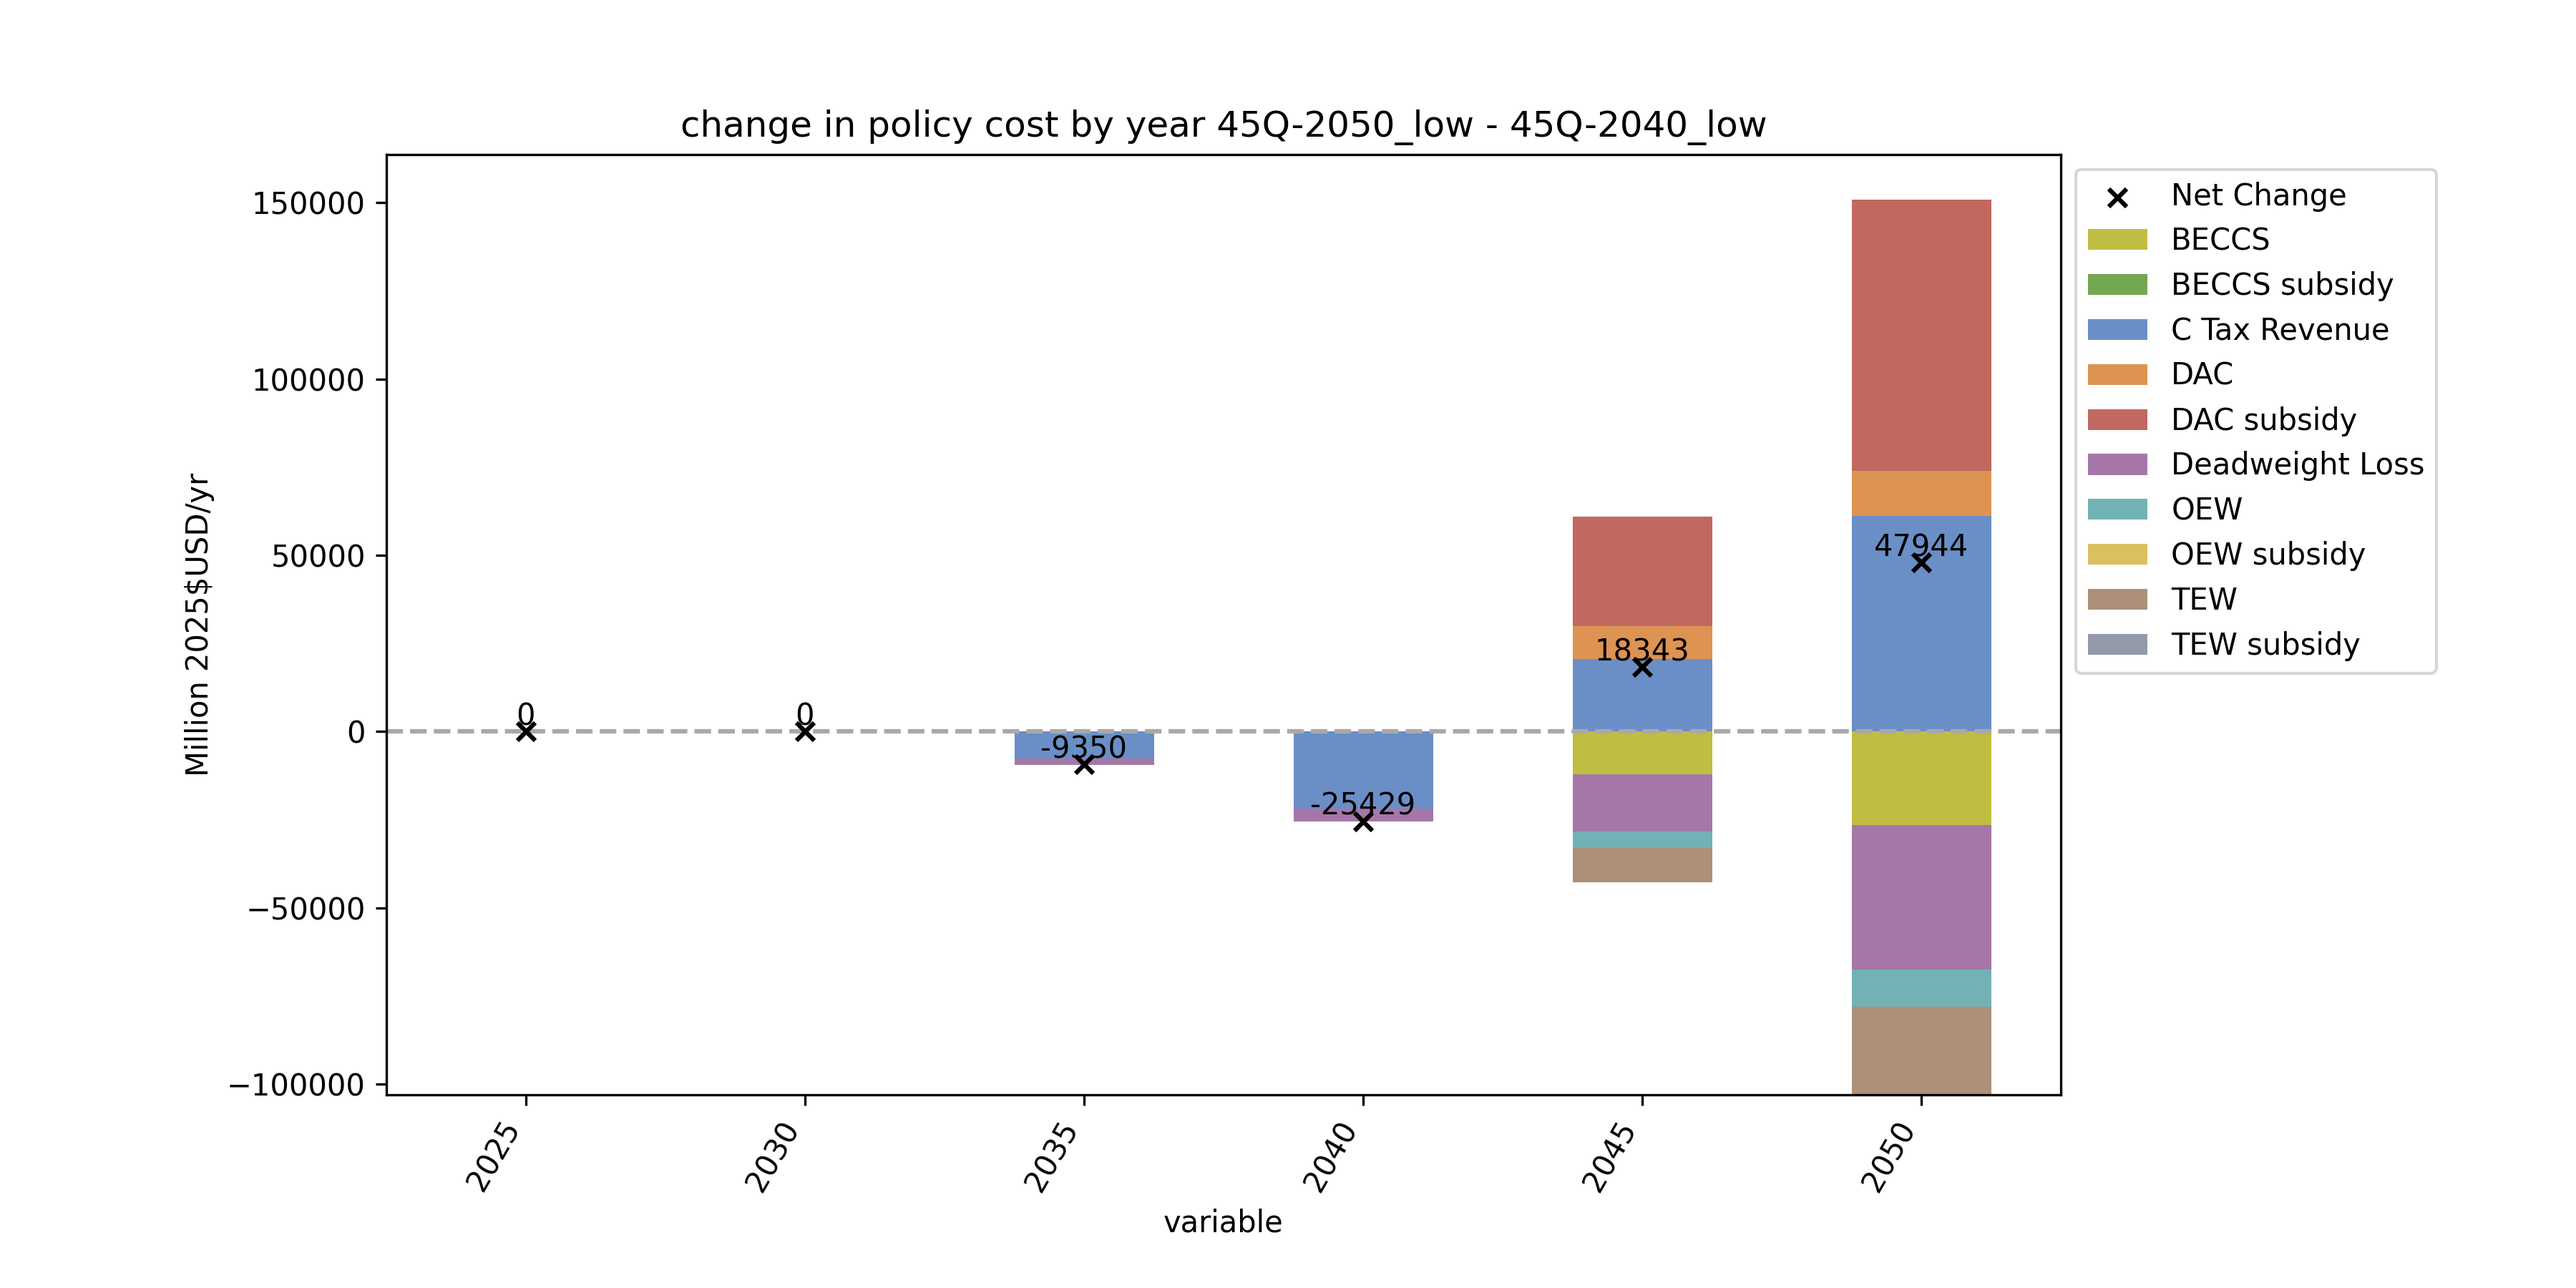
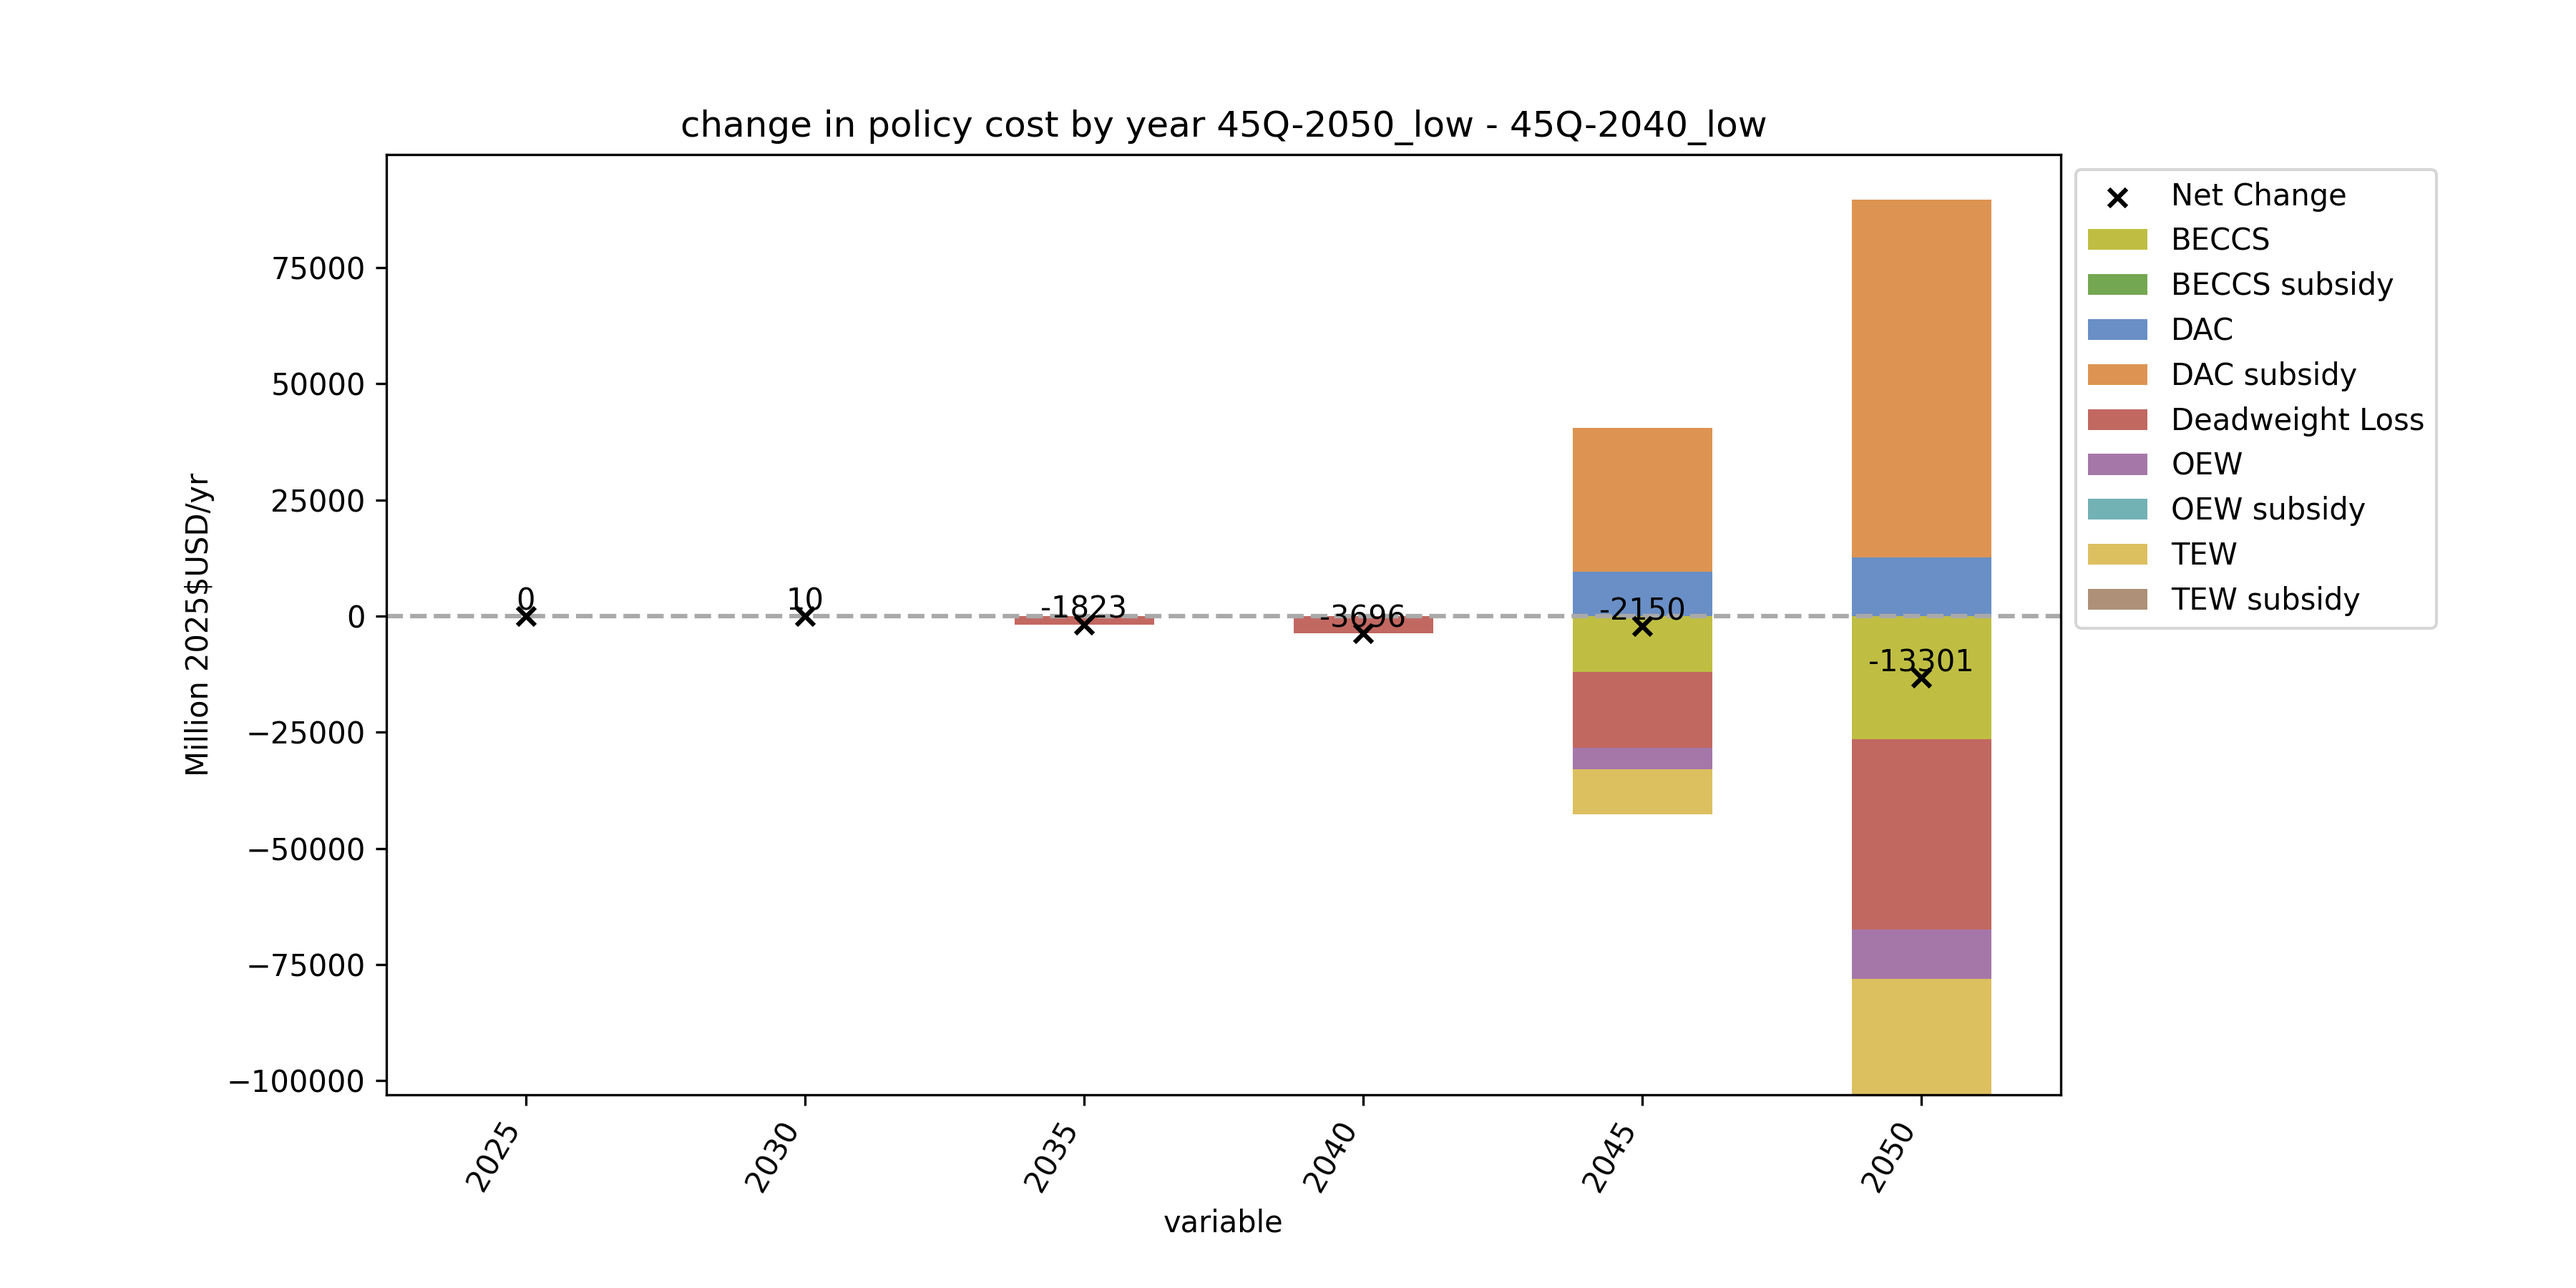
some more scenario comparisons

diff --git a/supplementary_figures.py b/supplementary_figures.py
@@ -13,11 +13,11 @@ def main(config_fname, reference_year):
     """
     config_fname = config_fname.replace("_", "/")
     os.makedirs("./data/data_analysis/images/" + config_fname + "/", exist_ok=True)
-    # compare_policy_costs("CDRIA-rhodium18b_low", "CDRIA-2035_low")
+    compare_policy_costs("innovation-rhodium18B_low", "CDRIA-rhodium18B_low")
     # cement(config_fname, "2050")
-    #electricity(config_fname, "2050")
+    # electricity(config_fname, "2050")
     # state_CDR(config_fname, "2050")
-    C_prices(config_fname, reference_year)
+    # C_prices(config_fname, reference_year)
     # CDR_subsidies(config_fname, "2035", "2040")
 
 
@@ -244,6 +244,7 @@ def compare_policy_costs(scenario1, scenario2):
     cost_diff = pd.read_csv("data/data_analysis/supplementary_tables/" + scenario1 +
                             "/policy cost by technology.csv")
     cost_diff = pd.merge(cost_diff, dataframe, "outer", on=["product", "baseline"], suffixes=("_old", "_new"))
+    cost_diff = cost_diff[cost_diff["product"] != "C Tax Revenue"]
     cost_diff["Units"] = "Million 2025$USD/yr"
     for i in c.GCAMConstants.plotting_x:
         # if a year has been masked from the data, don't fill na
